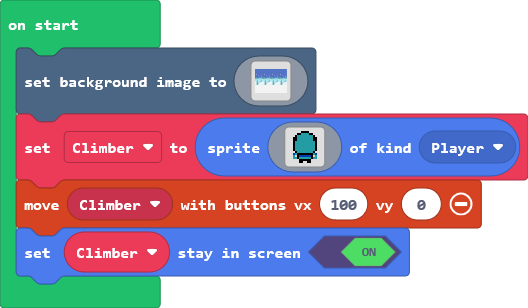
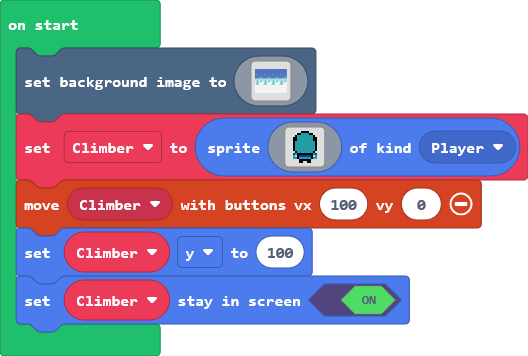
Added boulder

diff --git a/images.g.ts b/images.g.ts
@@ -22,6 +22,26 @@ namespace myImages {
 . . . . . f f f f f f . . . . . 
 . . . . . f f . . f f . . . . . 
 `;
+            case "image2":
+            case "Boulder":return img`
+. . . . . . . . . . . . . . . . . 
+. . . . . b b b b b b b . . . . . 
+. . . b b d d d d d d d b b . . . 
+. . b d b b d d d d d d d d b . . 
+. . b b b d d d d d d b d d b . . 
+. b d b d d d d d d d d b b d b . 
+. b d d d d d d d d d d b d d b . 
+. b d d d d d d d d d d d d d b . 
+. b d d d d d d d d d d d d d b . 
+. b d d d d d d d d d d d d d b . 
+. b d d d d d d d d d d d d d b . 
+. b d d d b d d d d d d d d d b . 
+. . b d b b d d d d d d d d b . . 
+. . b d b d d d d d d d d d b . . 
+. . . b b d d d d d d d b b . . . 
+. . . . . b b b b b b b . . . . . 
+. . . . . . . . . . . . . . . . . 
+`;
         }
         return null;
     })

diff --git a/main.ts b/main.ts
@@ -122,4 +122,5 @@ scene.setBackgroundImage(img`
     `)
 let Climber = sprites.create(assets.image`Climber back`, SpriteKind.Player)
 controller.moveSprite(Climber, 100, 0)
+Climber.y = 100
 Climber.setStayInScreen(true)
